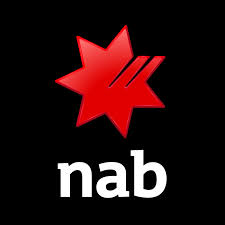
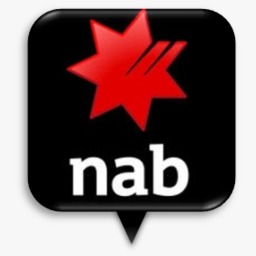
Adding NAB atm

diff --git a/src/components/NestedList.js b/src/components/NestedList.js
@@ -1,0 +1,102 @@
+import React from 'react';
+import PropTypes from 'prop-types';
+import { withStyles } from 'material-ui/styles';
+import ListSubheader from 'material-ui/List/ListSubheader';
+import List, { ListItem, ListItemIcon, ListItemText } from 'material-ui/List';
+import Collapse from 'material-ui/transitions/Collapse';
+import LocationOn from '@material-ui/icons/LocationOn';
+import DraftsIcon from '@material-ui/icons/Drafts';
+import SendIcon from '@material-ui/icons/Send';
+import ExpandLess from '@material-ui/icons/ExpandLess';
+import ExpandMore from '@material-ui/icons/ExpandMore';
+import StarBorder from '@material-ui/icons/StarBorder';
+import { connect } from 'react-redux'; 
+import { getlocation } from '../Actions';
+
+const styles = theme => ({
+  root: {
+    width: '100%',
+    maxWidth: 360,
+    backgroundColor: theme.palette.background.paper,
+  },
+  nested: {
+    paddingLeft: theme.spacing.unit * 4,
+  },
+});
+
+class NestedList extends React.Component {
+  state = { open: true };
+
+  handleClick = () => {
+    this.setState({ open: !this.state.open });
+  };
+
+  handleIconClick = () => {
+    this.props.getlocation()
+  }
+
+  render() {
+    const { classes } = this.props;
+
+    return (
+      <div className={classes.root}>
+        <List
+          component="nav"
+        >
+          <ListItem button onClick={this.handleClick}>
+            <ListItemIcon>
+              <LocationOn />
+            </ListItemIcon>
+            <ListItemText inset primary="NAB Locations" />
+            {this.state.open ? <ExpandLess /> : <ExpandMore />}
+          </ListItem>
+          <Collapse in={this.state.open} timeout="auto" unmountOnExit>
+            <List component="div" disablePadding>
+              <ListItem button className={classes.nested}>
+                <ListItemIcon>
+                  <StarBorder />
+                </ListItemIcon>
+                <ListItemText onClick={this.handleIconClick} inset primary="NAB ATM" />
+              </ListItem>
+              <ListItem button className={classes.nested}>
+                <ListItemIcon>
+                  <StarBorder />
+                </ListItemIcon>
+                <ListItemText inset primary="NAB Branch" />
+              </ListItem>
+            </List>
+          </Collapse>
+          <ListItem button onClick={this.handleClick}>
+            <ListItemIcon>
+              <LocationOn />
+            </ListItemIcon>
+            <ListItemText inset primary="Other Locations" />
+            {this.state.open ? <ExpandLess /> : <ExpandMore />}
+          </ListItem>
+          <Collapse in={this.state.open} timeout="auto" unmountOnExit>
+            <List component="div" disablePadding>
+              <ListItem button className={classes.nested}>
+                <ListItemIcon>
+                  <StarBorder />
+                </ListItemIcon>
+                <ListItemText onClick={this.handleIconClick} inset primary="Asian Grocery" />
+              </ListItem>
+              <ListItem button className={classes.nested}>
+                <ListItemIcon>
+                  <StarBorder />
+                </ListItemIcon>
+                <ListItemText inset primary="Asian Restaurants" />
+              </ListItem>
+            </List>
+          </Collapse>
+        </List>
+      </div>
+    );
+  }
+}
+
+NestedList.propTypes = {
+  classes: PropTypes.object.isRequired,
+};
+
+export default withStyles(styles)( connect(null, {getlocation})(NestedList));

diff --git a/src/components/Map.js b/src/components/Map.js
@@ -5,6 +5,7 @@ import MarkerClusterer from 'react-google-maps/lib/components/addons/MarkerClust
 import Helmet from 'react-helmet';
 import { connect } from 'react-redux';
 import icon from '../resources/css/img/nab_atm.jpeg';
+const { SearchBox } = require("react-google-maps/lib/components/places/SearchBox");
 
 // const mapTypeControlOptions = 
 
@@ -19,6 +20,33 @@ import icon from '../resources/css/img/nab_atm.jpeg';
 const GettingStartedGoogleMap = withScriptjs(
 	withGoogleMap(props => (
 		<GoogleMap ref={props.onMapLoad} zoom={props.zoom} center={props.center} onClick={props.onMapClick} >
+
+            <SearchBox
+                ref={props.onSearchBoxMounted}
+                bounds={props.bounds}
+                controlPosition={window.google.maps.ControlPosition.TOP_LEFT}
+                onPlacesChanged={props.onPlacesChanged}
+            >
+            <input
+                onChange={props.simulateOnChange}
+                type="text"
+                placeholder="Search other places"
+                value={props.simulateSearchVal}
+                style={{
+                    boxSizing: `border-box`,
+                    border: `1px solid transparent`,
+                    width: `240px`,
+                    height: `32px`,
+                    marginTop: `27px`,
+                    padding: `0 12px`,
+                    borderRadius: `3px`,
+                    boxShadow: `0 2px 6px rgba(0, 0, 0, 0.3)`,
+                    fontSize: `14px`,
+                    outline: `none`,
+                    textOverflow: `ellipses`,
+                }}
+            />
+            </SearchBox>
 			{/* {props.polygons.map((polygon, index) => (
 				<Polygon
 					path={polygon.coords}
@@ -40,7 +68,7 @@ const GettingStartedGoogleMap = withScriptjs(
         	</MarkerClusterer> */}
             <MarkerClusterer averageCenter enableRetinaIcons={true} gridSize={30} zoomOnClick={false} >
 				{props.markers.map(marker => (
-					<Marker key={marker._id}
+					<Marker key={marker.id}
 						{ ...marker} 
 						options={{ icon: { url: icon, scaledSize: new window.google.maps.Size(30, 40) } }}
 						onClick={() => props.onMarkerClick(marker)}
@@ -81,14 +109,20 @@ class Map extends Component {
 
 	handleMapClick(event) {
 		console.log(event.latLng.lat(), event.latLng.lng());
-	}
+    }
+
+    component
+    
+    simulateOnChange(){
+
+    }
 
 	render() {
 		return (
 			<div style={{ height: '100vh' }}>
 				<Helmet title="Wushi Integrated" />
 				<GettingStartedGoogleMap
-					googleMapURL="https://maps.googleapis.com/maps/api/js?&v=3.exp&libraries=geometry,drawing,places"
+					googleMapURL="https://maps.googleapis.com/maps/api/js?&v=3.exp&libraries=geometry,drawing,places&key=AIzaSyBSWVa68rndgUrYRRxC2cXrd-KDP24G8qA"
 					loadingElement={<div style={{ height: '100vh' }} />}
 					containerElement={<div style={{ height: '100vh' }} />}
 					mapElement={<div style={{ height: '100vh' }} />}
@@ -97,6 +131,7 @@ class Map extends Component {
 					onMapLoad={map => this.handleMapLoad(map)}
 					onMapClick={e => this.handleMapClick(e)}
 					zoom={this.state.zoom}
+                    simulateSearchVal="Asian groceries near me"
 				/>
 			</div>
 		);

diff --git a/src/components/PermanentDrawer.js b/src/components/PermanentDrawer.js
@@ -16,7 +16,7 @@ import ChevronLeftIcon from '@material-ui/icons/ChevronLeft';
 import ChevronRightIcon from '@material-ui/icons/ChevronRight';
 
 import Map from './Map';
-import DrawerMenu from './DrawerMenu';
+import NestedList from './NestedList';
 
 const drawerWidth = 240;
 
@@ -138,7 +138,7 @@ class PersistentDrawer extends React.Component {
           </IconButton>
         </div>
         <Divider />
-        <DrawerMenu />
+        <NestedList />
       </Drawer>
     );
 
